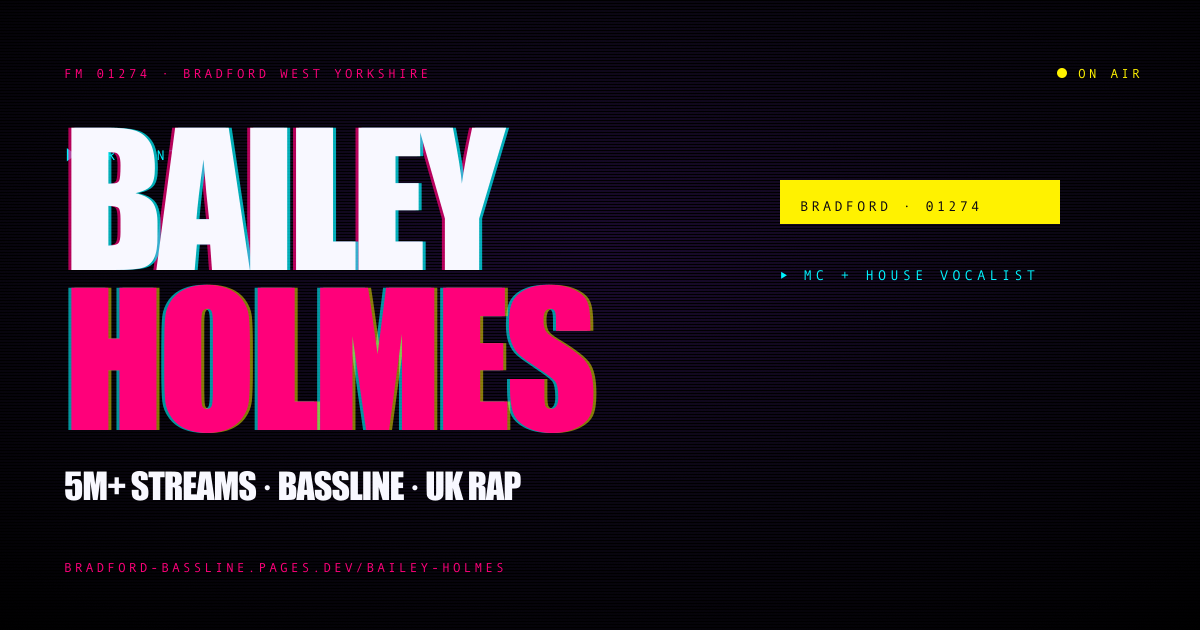
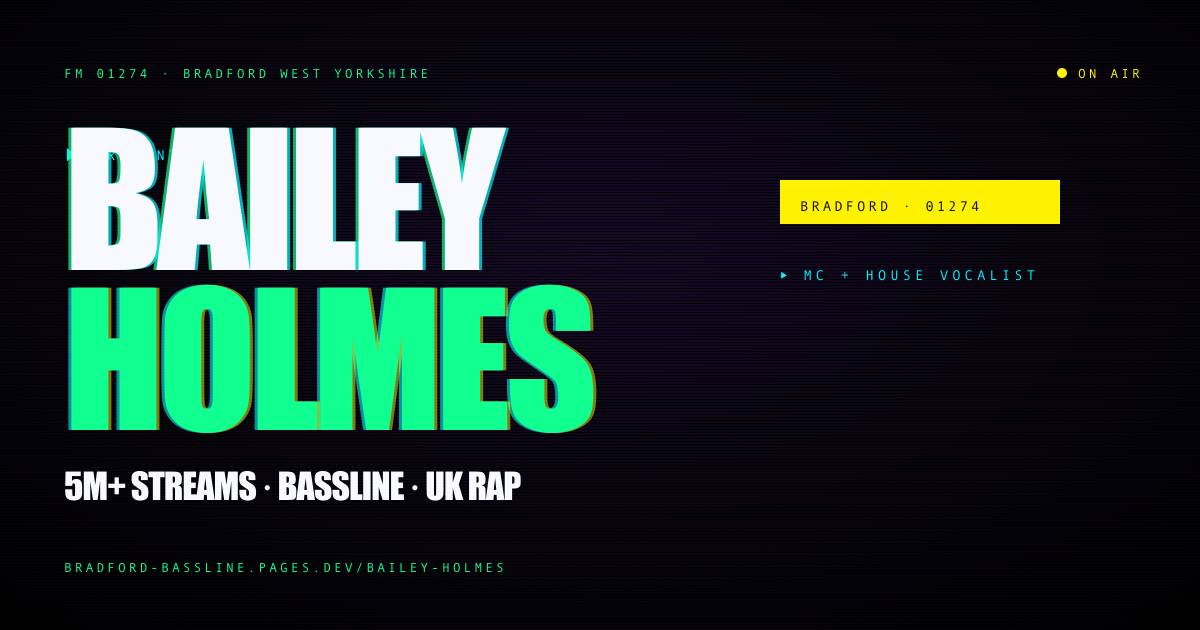
Site-wide swap magenta -> acid green (#10ff90)
User feedback: hot magenta on the BASSLINE display headline read
'femme/vaporwave', clashed with the Yorkshire bassline genre's grit.
Replaced with acid neon green throughout — more authentic to the
Sheffield/Niche-era bassline aesthetic and to streetwear/club coding.

CSS variable --color-magenta keeps its name (touches less code) but
now renders #10ff90. All hardcoded #ff007a + rgba(255,0,122,*) usages
in component inline styles and OG SVGs converted to #10ff90 +
rgba(16,255,144,*). OG PNGs re-rendered.

diff --git a/src/components/hero/ArtistHero.tsx b/src/components/hero/ArtistHero.tsx
@@ -130,7 +130,7 @@ export default function ArtistHero({
         background: "linear-gradient(180deg, rgba(10,6,18,0.4) 0%, rgba(10,6,18,0.7) 50%, rgba(10,6,18,0.95) 100%)",
       }} />
       <div className="absolute inset-0 mix-blend-color" style={{
-        background: "linear-gradient(135deg, rgba(255,0,122,0.18) 0%, rgba(0,245,255,0.10) 100%)",
+        background: "linear-gradient(135deg, rgba(16,255,144,0.18) 0%, rgba(0,245,255,0.10) 100%)",
       }} />
 
       {/* Vignette */}
@@ -238,7 +238,7 @@ export default function ArtistHero({
               target="_blank"
               rel="noopener noreferrer"
               className="group mt-10 inline-flex items-center gap-3 border-2 border-magenta bg-ink/40 px-7 py-3.5 font-mono text-xs font-bold uppercase tracking-[0.3em] text-magenta backdrop-blur-md transition-all hover:bg-magenta hover:text-ink sm:mt-12"
-              style={{ boxShadow: "0 0 0 1px rgba(255,0,122,0.2), 0 8px 32px rgba(255,0,122,0.15)" }}
+              style={{ boxShadow: "0 0 0 1px rgba(16,255,144,0.2), 0 8px 32px rgba(16,255,144,0.15)" }}
             >
               <span className="inline-block h-2 w-2 rounded-full bg-magenta group-hover:bg-ink" />
               ⏵ Hit play · Spotify

diff --git a/src/styles/global.css b/src/styles/global.css
@@ -12,7 +12,7 @@
   --color-ink: #0a0612;
   --color-ink-soft: #15101f;
   --color-ghost: #f8f8ff;
-  --color-magenta: #ff007a;
+  --color-magenta: #10ff90;
   --color-acid: #fff200;
   --color-cyan: #00f5ff;
   --color-blood: #ff1744;
@@ -83,12 +83,12 @@ body::before {
 /* Chromatic aberration on display headlines */
 .chrom {
   text-shadow:
-    -2px 0 0 rgba(255, 0, 122, 0.55),
+    -2px 0 0 rgba(16, 255, 144, 0.55),
     2px 0 0 rgba(0, 245, 255, 0.55);
 }
 .chrom-soft {
   text-shadow:
-    -1px 0 0 rgba(255, 0, 122, 0.35),
+    -1px 0 0 rgba(16, 255, 144, 0.35),
     1px 0 0 rgba(0, 245, 255, 0.35);
 }
 
@@ -137,7 +137,7 @@ body::before {
   text-shadow:
     -3px 0 0 var(--color-magenta),
     3px 0 0 var(--color-cyan),
-    0 0 24px rgba(255, 0, 122, 0.6);
+    0 0 24px rgba(16, 255, 144, 0.6);
 }
 
 /* Sticker / badge */
